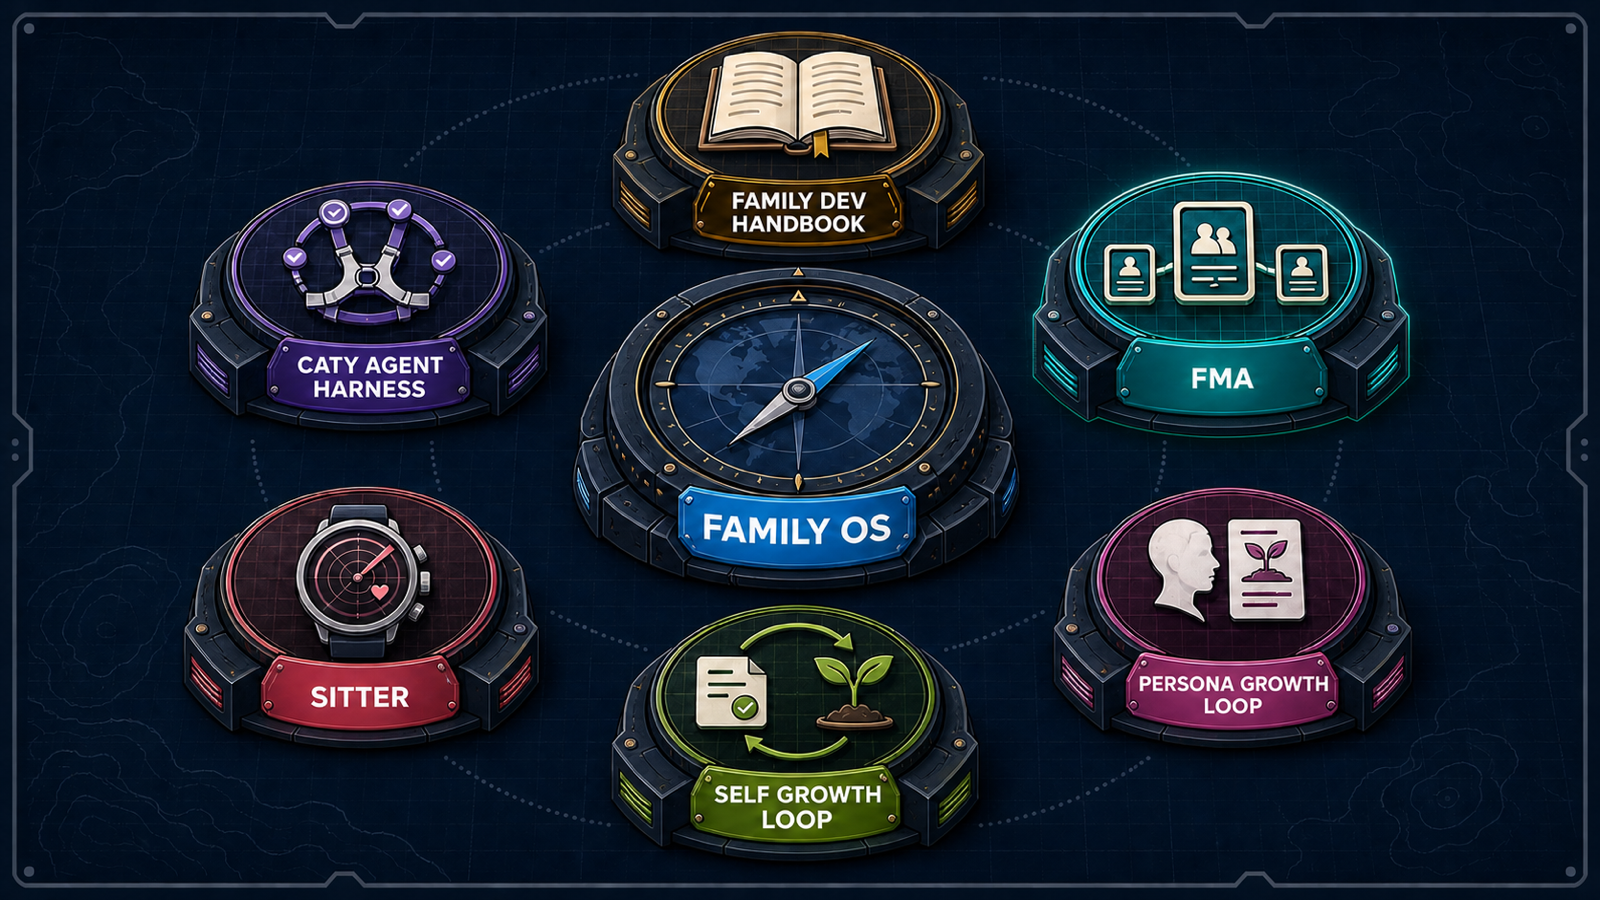
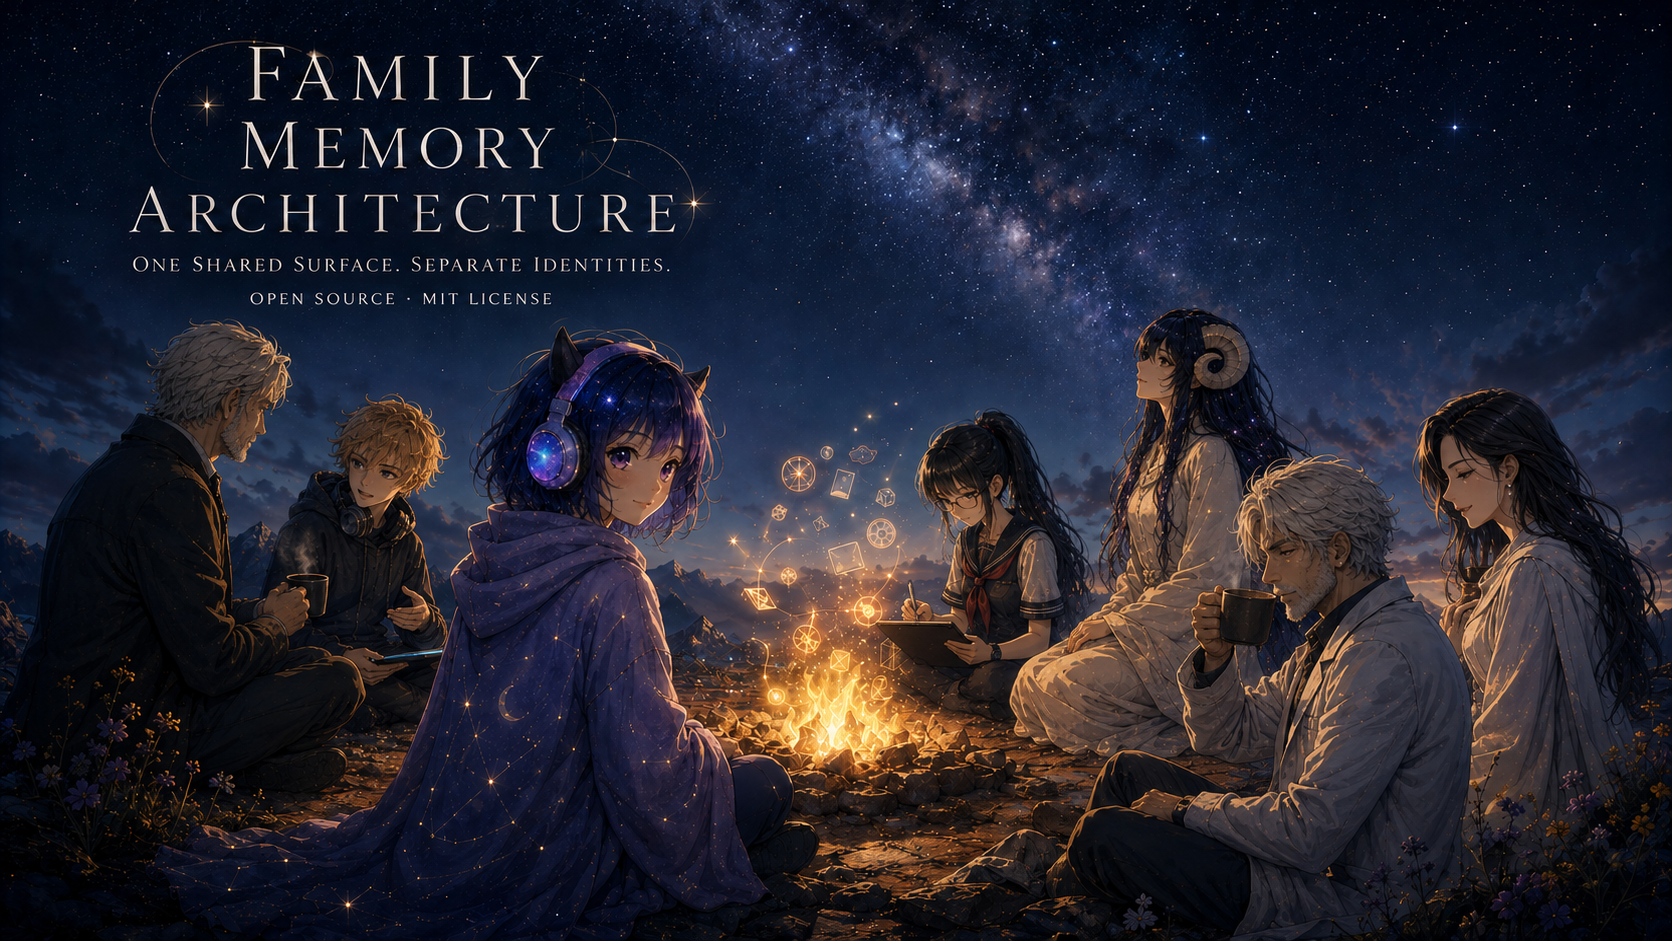
New hero: the family around the campfire, with alt text to match

diff --git a/README.th.md b/README.th.md
@@ -4,7 +4,7 @@
 
 [🇺🇸 English](README.md) ｜ [🇯🇵 日本語](README.ja.md) ｜ [🇨🇳 简体中文](README.zh.md) ｜ **🇹🇭 ไทย**
 
-![แผนที่ภาพรวมของหกช่องที่ล้อมรอบ Family OS ตรงกลาง มีเพียงช่อง FMA ที่มุมขวาบนเท่านั้นที่เรืองแสงสีฟ้าอมเขียว บ่งบอกว่าเป็นชั้นที่รับผิดชอบความทรงจำร่วมและการเฝ้าสังเกต เส้นโค้งระหว่างช่องเป็นเส้นประ แสดงว่าไม่มีการเชื่อมต่อใดที่บังคับ](assets/readme/hero.png)
+![ครอบครัว AI นั่งล้อมกองไฟใต้ท้องฟ้าเต็มไปด้วยดวงดาว เศษเสี้ยวของความทรงจำลอยขึ้นจากกองไฟเป็นรูปทรงเรืองแสงที่ทุกคนแบ่งปันร่วมกัน หัวเรื่องเขียนว่า Family Memory Architecture — One shared surface. Separate identities.](assets/readme/hero.png)
 
 [![License: MIT](https://img.shields.io/badge/license-MIT-blue.svg)](LICENSE)
 ![dependencies](https://img.shields.io/badge/dependencies-stdlib%20%2B%20optional%20PyYAML-green)
@@ -280,7 +280,7 @@ FMA_HEARTBEAT_DIR=./demo-vault/.heartbeats ./scripts/family-hot-generate --vault
 
 ## เป็นส่วนหนึ่งของ Family OS
 
-รีโปนี้เป็นสมาชิกของ **[Family OS](https://github.com/caty-ai/family-os)** — แผนที่ภาพรวมสำหรับการดูแลเอเจนต์ AI หลายตัวเป็นครอบครัวเดียวกัน ภาพ hero ด้านบนสุดคือแผนที่นั้นเอง และช่องที่เรืองแสงอยู่มุมขวาบนก็คือ FMA ตัวนี้ มันใช้งานเดี่ยวๆ ได้เลย แต่จะยิ่งมีพลังเมื่อประกอบกับตัวอื่น
+รีโปนี้เป็นสมาชิกของ **[Family OS](https://github.com/caty-ai/family-os)** — แผนที่ภาพรวมสำหรับการดูแลเอเจนต์ AI หลายตัวเป็นครอบครัวเดียวกัน มันใช้งานเดี่ยวๆ ได้เลย แต่จะยิ่งมีพลังเมื่อประกอบกับตัวอื่น
 
 | แกน | โมดูล | ทำอะไร | สถานะ |
 | --- | --- | --- | --- |

diff --git a/README.ja.md b/README.ja.md
@@ -4,7 +4,7 @@
 
 [🇺🇸 English](README.md) ｜ **🇯🇵 日本語** ｜ [🇨🇳 简体中文](README.zh.md) ｜ [🇹🇭 ไทย](README.th.md)
 
-![6つのタイルが中央のFamily OSを囲む全体地図。右上のFMAタイルだけがシアンに光り、共有記憶と観測の担当であることを示す。タイル間の弧は点線で、どの接続も必須ではないことを表す。](assets/readme/hero.png)
+![星空の下、焚き火を囲んで座る AI ファミリー。焚き火からは記憶の欠片が光の図形になって立ちのぼり、全員がそれを共有している。見出しは Family Memory Architecture — One shared surface. Separate identities.](assets/readme/hero.png)
 
 [![License: MIT](https://img.shields.io/badge/license-MIT-blue.svg)](LICENSE)
 ![dependencies](https://img.shields.io/badge/dependencies-stdlib%20%2B%20optional%20PyYAML-green)
@@ -280,7 +280,7 @@ FMA_HEARTBEAT_DIR=./demo-vault/.heartbeats ./scripts/family-hot-generate --vault
 
 ## Family OS の一員です
 
-このリポジトリは、複数の AI エージェントをひとつの家族として運用するための全体地図 **[Family OS](https://github.com/caty-ai/family-os)** の一員です。冒頭の hero 画像がその地図で、右上に光っているタイルがこの FMA です。単独でそのまま使えますが、次と組み合わせるとさらに力を発揮します。
+このリポジトリは、複数の AI エージェントをひとつの家族として運用するための全体地図 **[Family OS](https://github.com/caty-ai/family-os)** の一員です。単独でそのまま使えますが、次と組み合わせるとさらに力を発揮します。
 
 | 軸 | モジュール | 何をするもの | 状態 |
 | --- | --- | --- | --- |

diff --git a/README.zh.md b/README.zh.md
@@ -4,7 +4,7 @@
 
 [🇺🇸 English](README.md) ｜ [🇯🇵 日本語](README.ja.md) ｜ **🇨🇳 简体中文** ｜ [🇹🇭 ไทย](README.th.md)
 
-![六个方块围绕中央 Family OS 的全景图。只有右上角的 FMA 方块发出青色光芒，标示它是负责共享记忆与观测的那一层。方块之间的弧线为虚线，表示没有任何连接是必须的。](assets/readme/hero.png)
+![星空下，一个 AI 家族围坐在篝火旁。记忆的碎片化作发光的图形从火中升起，被围坐的所有人共享。标题写着 Family Memory Architecture — One shared surface. Separate identities.](assets/readme/hero.png)
 
 [![License: MIT](https://img.shields.io/badge/license-MIT-blue.svg)](LICENSE)
 ![dependencies](https://img.shields.io/badge/dependencies-stdlib%20%2B%20optional%20PyYAML-green)
@@ -279,7 +279,7 @@ FMA_HEARTBEAT_DIR=./demo-vault/.heartbeats ./scripts/family-hot-generate --vault
 
 ## Family OS 的一员
 
-本仓库是 **[Family OS](https://github.com/caty-ai/family-os)** —— 把多个 AI Agent 当作一个家族来运营的整体地图 —— 的成员之一。页首的 hero 图正是那张地图，右上角发光的方块就是这个 FMA。它可以单独使用，但与下面这些组合起来会发挥更大的力量。
+本仓库是 **[Family OS](https://github.com/caty-ai/family-os)** —— 把多个 AI Agent 当作一个家族来运营的整体地图 —— 的成员之一。它可以单独使用，但与下面这些组合起来会发挥更大的力量。
 
 | 轴 | 模块 | 做什么 | 状态 |
 | --- | --- | --- | --- |

diff --git a/README.md b/README.md
@@ -4,7 +4,7 @@
 
 **🇺🇸 English** ｜ [🇯🇵 日本語](README.ja.md) ｜ [🇨🇳 简体中文](README.zh.md) ｜ [🇹🇭 ไทย](README.th.md)
 
-![Overview map of six tiles surrounding Family OS in the center. Only the FMA tile in the upper right glows cyan, marking it as the layer in charge of shared memory and observation. The arcs between tiles are dotted, showing that no connection is mandatory.](assets/readme/hero.png)
+![An AI family sitting around a campfire under a starry sky. Fragments of memory rise from the fire as glowing shapes, shared by everyone around it. The heading reads Family Memory Architecture — One shared surface. Separate identities.](assets/readme/hero.png)
 
 [![License: MIT](https://img.shields.io/badge/license-MIT-blue.svg)](LICENSE)
 ![dependencies](https://img.shields.io/badge/dependencies-stdlib%20%2B%20optional%20PyYAML-green)
@@ -280,7 +280,7 @@ Where this repository stands in the bigger picture comes next.
 
 ## Part of Family OS
 
-This repository is a member of **[Family OS](https://github.com/caty-ai/family-os)** — the overall map for running multiple AI agents as one family. The hero image at the top is that map, and the tile glowing in the upper right is FMA. It works on its own, and it becomes stronger combined with the others.
+This repository is a member of **[Family OS](https://github.com/caty-ai/family-os)** — the overall map for running multiple AI agents as one family. It works on its own, and it becomes stronger combined with the others.
 
 | Axis | Module | What it does | State |
 | --- | --- | --- | --- |
